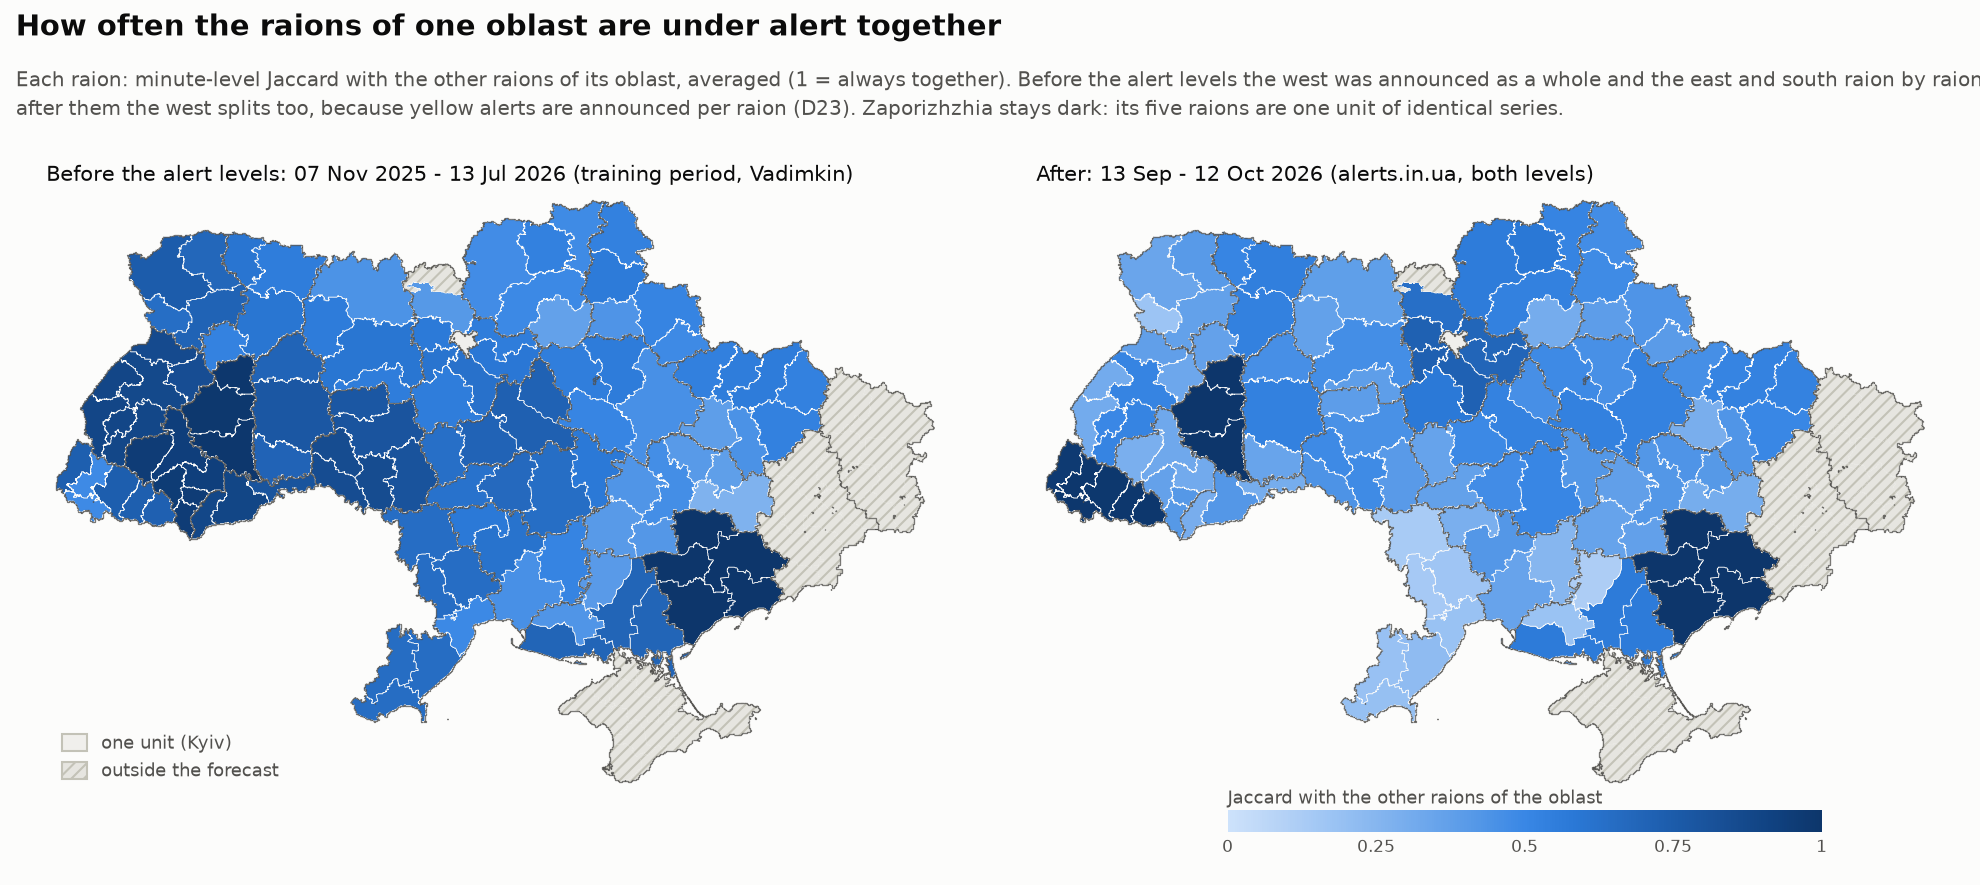
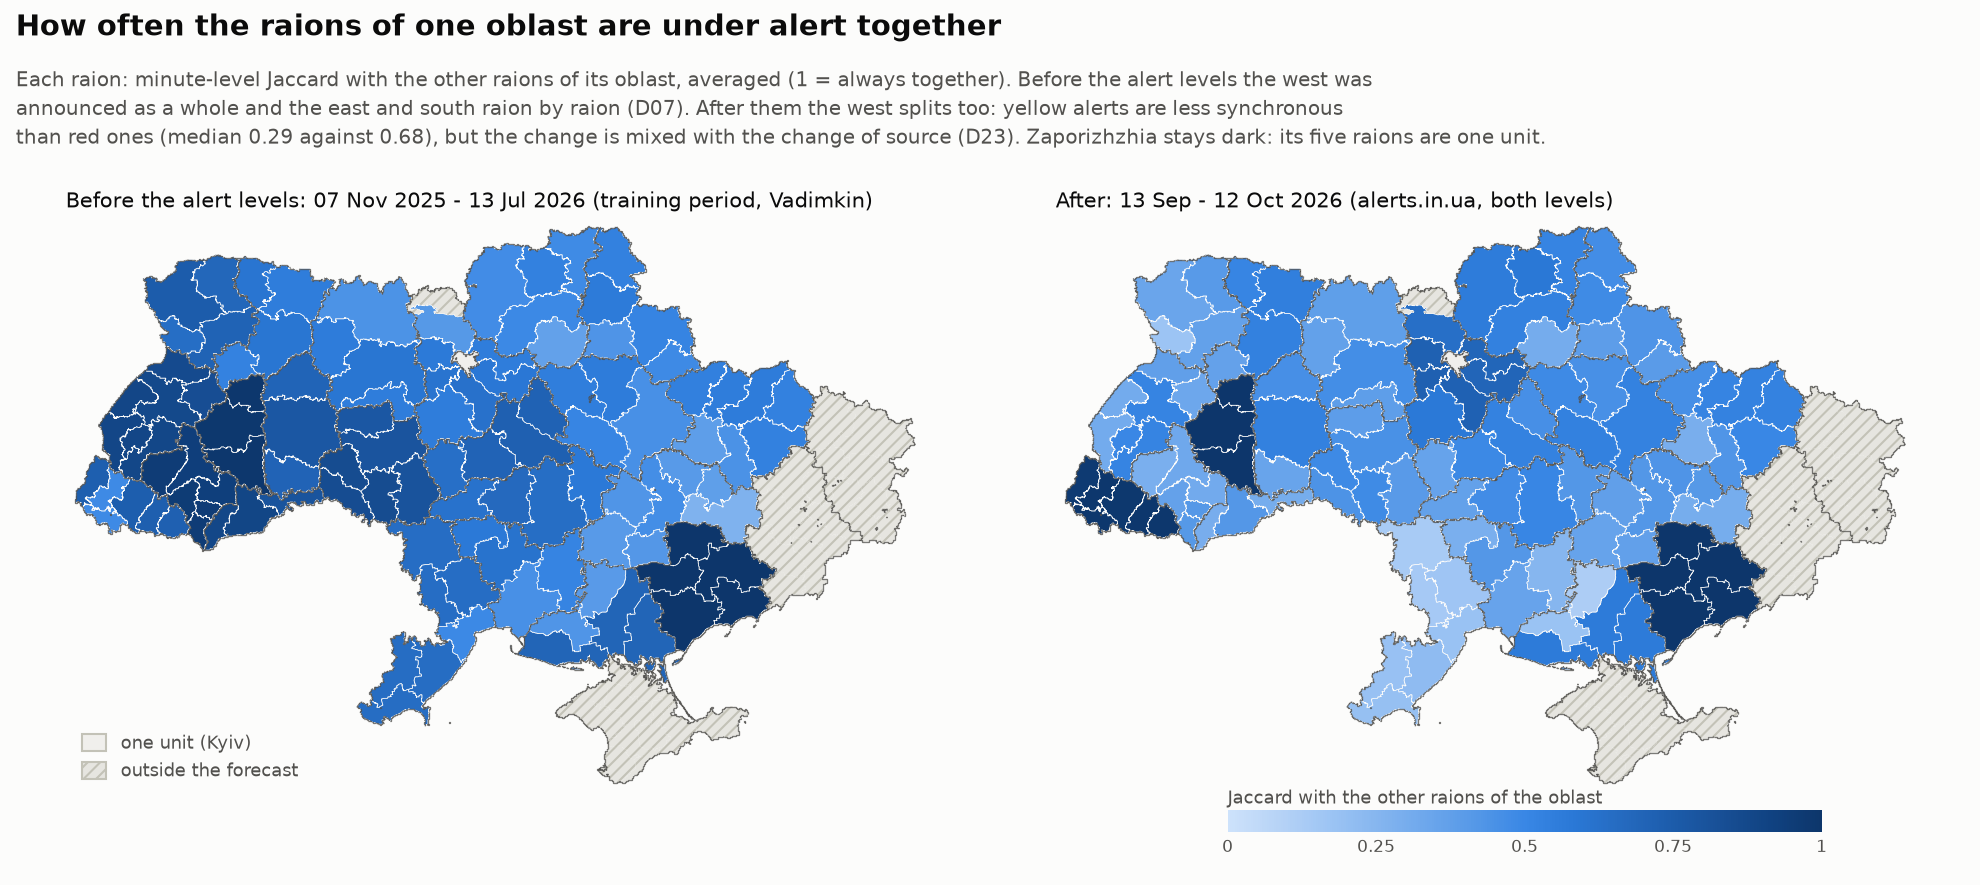
PYTHONPATH info added

diff --git a/src/alerts/maps.py b/src/alerts/maps.py
@@ -182,8 +182,9 @@ def levels_figure(base: MapBase, units: pd.DataFrame, moments: dict, state: dict
                 color=MUTED, va='center', ha='left')
     ax.text(1.09, len(c) - 0.2, 'hours under\nalert, Y / R', transform=ax.get_yaxis_transform(), fontsize=8,
             color=INK_2, va='bottom', ha='left')
-    fig.text(0.70, 0.012, 'Time-weighted over the minutes with an alert of that level. Kyiv City is one unit; '
-             'Zakarpattia had no yellow alert.', fontsize=8, color=INK_2, ha='left', va='bottom', wrap=True)
+    fig.text(0.70, 0.012, 'Time-weighted over the minutes with an alert of that level. Kyiv City is one unit, and so '
+             'are the five raions of Zaporizhzhia (identical series), hence 100%. Zakarpattia had no yellow alert.',
+             fontsize=8, color=INK_2, ha='left', va='bottom', wrap=True)
     fig.savefig(file, dpi=150, facecolor=SURFACE)
     plt.close(fig)
 
@@ -196,14 +197,15 @@ def synchrony_figure(base: MapBase, units: pd.DataFrame, panels: list, file) -> 
     fig.text(0.008, 0.985, 'How often the raions of one oblast are under alert together', ha='left', va='top',
              fontsize=14, color=INK, weight='bold')
     fig.text(0.008, 0.925, 'Each raion: minute-level Jaccard with the other raions of its oblast, averaged '
-             '(1 = always together). Before the alert levels the west was announced as a whole and the east and south '
-             'raion by raion (D07);\nafter them the west splits too, because yellow alerts are announced per raion (D23). '
-             'Zaporizhzhia stays dark: its five raions are one unit of identical series.',
+             '(1 = always together). Before the alert levels the west was\nannounced as a whole and the east and '
+             'south raion by raion (D07). After them the west splits too: yellow alerts are less synchronous\nthan '
+             'red ones (median 0.29 against 0.68), but the change is mixed with the change of source (D23). '
+             'Zaporizhzhia stays dark: its five raions are one unit.',
              ha='left', va='top', fontsize=9.5, color=INK_2, linespacing=1.45)
     inside = np.array([u is not None for u in feature_units(base, units)])
     w = 1 / len(panels)
     for k, (ttl, val) in enumerate(panels):
-        ax = fig.add_axes([k * w + 0.005, 0.1, w - 0.01, 0.69])
+        ax = fig.add_axes([k * w + 0.005, 0.1, w - 0.01, 0.66])
         v = np.array([val.get(n, np.nan) for n in base.names])
         colors = [RAMP(x) if np.isfinite(x) else QUIET for x in v]
         draw(ax, base, colors, hatch_mask=~inside)

diff --git a/README.md b/README.md
@@ -6,6 +6,9 @@ of the newest raion-level data, retrained daily, and checked for leakage from th
 
 ## Key features
 
+- **Result.** LightGBM beats the best baseline at every horizon: PR-AUC +0.036 / +0.027 / +0.018 at
+  h = 1 / 3 / 6 on the last four weeks of data. The gain is modest, and only at h = 1 does it survive every
+  robustness check of the independent reviews; [Results](#results) says where it is fragile.
 - **Raion-level forecast.** The map is split into 104 forecast units: 110 raions in 22 oblasts plus Kyiv,
   with raions whose series are practically identical merged (D05, D07). An oblast is too coarse: while
   any raion of an oblast is under alert, on average only about half of its area is ([maps](#why-the-unit-is-a-raion)).
@@ -13,9 +16,9 @@ of the newest raion-level data, retrained daily, and checked for leakage from th
   when the Telegram channel behind it went silent, although the dataset's README says it is updated
   daily (D02). The test is the last four weeks before that, and the frozen model was checked again one
   month later on the alerts.in.ua API, downloaded on 12 October 2026 (D22).
-- **Two-level alert system (yellow / red).** The levels introduced in September 2026 (Cabinet of
-  Ministers resolution No. 1092) are measured in the data: all 16,710 records of the API month carry the
-  level. What they change for the forecast is in [Check on fresh data](#check-on-fresh-data-alertsinua-one-month-later) and D23.
+- **Checked after the alert-level reform.** The check one month later falls into the new yellow / red
+  regime (Cabinet of Ministers resolution No. 1092, September 2026). What is left there of the frozen
+  model's edge comes from red alerts; on yellow ones it is level with the baseline ([Check on fresh data](#check-on-fresh-data-alertsinua-one-month-later), D23).
 - **Leakage control.** Features see only what an observer had seen by moment `t`, including records that
   the source wrote retroactively; two automated leakage checks run on the real data in every pipeline
   run (D16, D18, D21).
@@ -46,7 +49,8 @@ honest measure is the backtest below.
 
 **LightGBM beats the best baseline at every horizon:** PR-AUC +0.036 at h = 1, +0.027 at h = 3 and
 +0.018 at h = 6 over B1, the rate of alerts per "unit × hour of day" over the last four weeks, with the
-95% intervals above zero.
+95% intervals of the day bootstrap above zero. The gain is modest, and only at h = 1 does it survive
+every robustness check of the reviews (below).
 
 Test: 2026-08-10 – 2026-09-07, retrained daily; square brackets give the 95% interval of a bootstrap
 over days, differences are paired (the full table of all models is in [`reports/results.md`](reports/results.md)):
@@ -57,16 +61,24 @@ over days, differences are paired (the full table of all models is in [`reports/
 | 3 | 0.255 | 0.674 | 0.701 | **+0.027** [+0.010, +0.041] | −0.021 [−0.033, −0.009] |
 | 6 | 0.360 | 0.814 | 0.832 | **+0.018** [+0.005, +0.030] | −0.019 [−0.033, −0.006] |
 
-The difference is statistically significant but modest. Most of the gain is within oblasts: B1 rests
-almost entirely on the "east versus west" difference, while the model tells moments and neighbouring
-raions apart. For example, on the test at h = 3 the PR-AUC in Kyiv is 0.63 for LR versus 0.34 for B1,
-and in Kyiv oblast 0.55 versus 0.34 (`reports/backtest_h3.md`). Logistic regression lies between B1 and
-LightGBM. B0 (the overall rate) and B2 (the number of oblasts under alert) are barely better than a
-random forecast: in summer at least a few frontline oblasts are always under alert, and that number
-stops measuring a "wave" (D18). The calibration of LR and LightGBM is close to the diagonal
-(`reports/figures/calibration_h*.png`).
+**Where the gain is fragile** (found in the review, [`reviews/FINAL.md`](reviews/FINAL.md), F23–F25):
+- at h = 3 most of the gain comes from the days around the channel outage; on the ordinary days of the
+  test (10–26 August) it is +0.010 [−0.002, +0.020];
+- at h = 6 the interval reaches zero with 7-day bootstrap blocks ([−0.003, +0.024]);
+- on validation, a B1 that weights recent days exponentially (half-life 7 days, fixed by the review in
+  advance) is level with LightGBM at h = 3 and 6. It was not run on the test: choosing a baseline after
+  seeing the test would break rule 6. So part of the edge may be memory of recent alerts rather than
+  structure;
+- logistic regression beats B1 significantly only at h = 1.
 
-![Forecast versus fact](reports/figures/forecast_vs_fact.png)
+Where the model clearly helps is Kyiv and Kyiv oblast: at h = 3 the PR-AUC of LightGBM is 0.59 and 0.51
+there, against 0.34 for B1 in both (`reports/backtest_h3.md`). Within one unit its ROC-AUC
+over time is about 0.60: it tells calm hours from dangerous ones only moderately. B0 (the overall rate)
+and B2 (the number of oblasts under alert) are barely better than a random forecast: in summer at least
+a few frontline oblasts are always under alert, and that number stops measuring a "wave" (D18). The
+calibration of LightGBM is close to the diagonal at every horizon, of LR only at h = 1
+(`reports/figures/calibration_h*.png`). Forecast against fact for three units over the first test week:
+[`forecast_vs_fact.png`](reports/figures/forecast_vs_fact.png).
 
 ## Why the unit is a raion
 
@@ -81,9 +93,10 @@ call the whole oblast for an alert that half of it never gets.
 How synchronous the raions of an oblast are depends on the region and has changed with the alert levels.
 Before them, the west was announced almost as a whole (Ternopil 0.99, Ivano-Frankivsk 0.94, Lviv 0.88:
 the median Jaccard of raion pairs over the training period), while the east and the south went raion by
-raion (Dnipropetrovsk 0.39, Kherson 0.42, Chernihiv 0.47; D07). After the levels the west splits too,
-because yellow alerts are announced per raion. Zakarpattia is the exception before the levels (0.36):
-it has very few alerts.
+raion (Dnipropetrovsk 0.39, Kherson 0.42, Chernihiv 0.47; D07). After the levels the west splits too:
+yellow alerts are less synchronous across raions than red ones (median Jaccard 0.29 against 0.68), though
+the comparison mixes the new regime with the new source (D23). Zakarpattia is the exception before the
+levels (0.36): it has very few alerts.
 
 ![How often the raions of one oblast are under alert together](reports/figures/raion_synchrony.png)
 
@@ -143,7 +156,13 @@ API responses are not in the repository: the terms of their publication are not 
   - *knowledge at the cut* (D21): what the dataset held at the cut is reconstructed, including records
     written later than their timestamps; the features must match those computed on the full data.
 
-  Both also run in the tests on synthetic data, and each fails when a leaking variant is swapped in.
+  Both also run in the tests on synthetic data; that each fails on a leaking variant was checked by
+  swapping one in by hand. Limits found by the reviews (`reviews/FINAL.md`, F08, F33–F35): the cuts on
+  the real data contain no retroactive end, so that class of leak (D16) is covered by the synthetic test
+  only; *corrupting the future* rebuilds the rows with its own copy of the walk-forward rule, so the row
+  selection of the backtest itself was checked by reading the code; and the knowledge check models six
+  real one-hour alerts differently from the observer table, so at seven hourly cuts outside the
+  configured ones it fails without a leak.
 - **Features cannot reach the raw tables:** they read the history only through `AlertHistory` (D21), so a
   new feature is checked automatically.
 - **Decisions about the data are fixed before the metrics:** thresholds, merged raions and masks come
@@ -164,6 +183,14 @@ the results:
   could not see and that a question from the author exposed (D16, D21);
 - the gain of the frozen model one month later would have been reported as +0.096 PR-AUC instead of
   +0.017, because the baseline had gone stale (D22).
+
+After the stages were built, the project went through two independent review sets, Claude agents and
+Gemini agents, with the same prompts: seven reviews each, covering stages 0–8
+([`reviews/prompts/`](reviews/prompts/)). A final synthesis ([`reviews/FINAL.md`](reviews/FINAL.md), in
+Russian) merged them into one plan and settled every disagreement on the data. Both sets found the same
+main problems, but the weaker one was confidently wrong in numbers (an estimate of lost alerts ten times
+too high) and marked all its findings "confirmed": a majority vote would have given wrong conclusions.
+The fragile spots of the result above and the limits of the leakage checks come from this review.
 
 All reports are in [`reports/`](reports/).
 
@@ -238,7 +265,7 @@ python scripts/forecast.py --at "2026-08-27 01:00" --json
 ```
 
 `status` is `quiet` (with a probability), `under_alert` or `no_forecast` (a short pause between alerts or
-a data gap). From Python:
+a data gap). From Python, with `src` on the import path (`PYTHONPATH=src`; the scripts add it themselves):
 
 ```python
 from alerts.config import load_config
@@ -263,6 +290,8 @@ download. To forecast the current hour, three steps are missing; the plan is in 
 
 - The model has not seen data for a month: the main series ended on 7 September. In a real deployment it
   would have to be retrained.
+- Part of the edge over B1 may be memory of recent alerts: a B1 with exponential weights is level with
+  LightGBM on validation at h = 3 and 6 and was not run on the test ([Results](#results)).
 - `scripts/forecast.py` replays past hours; it is not a live forecast. What a live one needs is listed in
   [Embedding](#embedding).
 - The models were trained before the alert levels were introduced. The level is used neither as a feature
